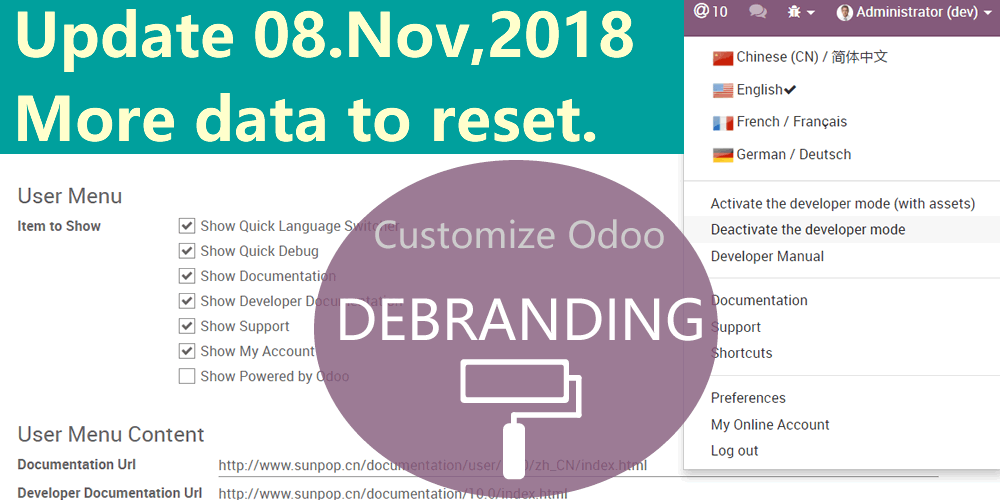
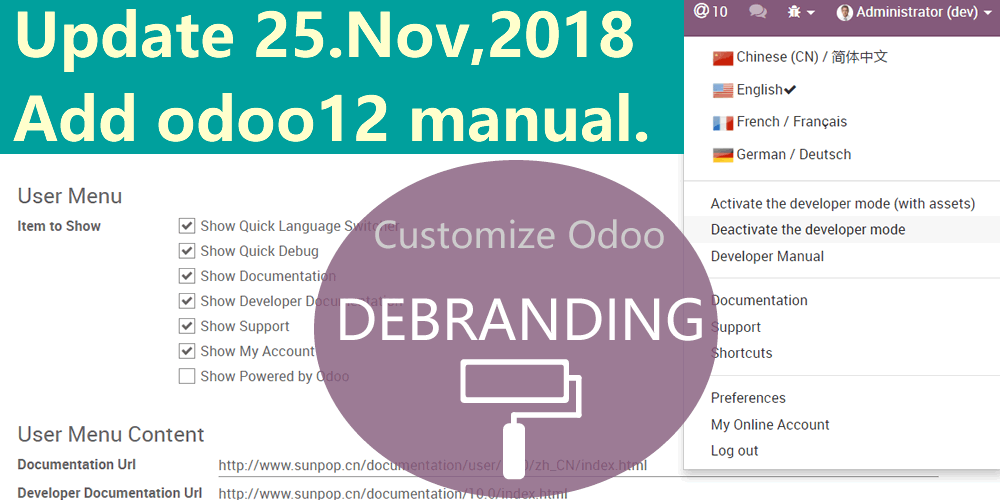
update app customize

Changed region(s): [[0.0, 0.18, 0.651, 0.3], [0.248, 0.03, 0.341, 0.12]]

diff --git a/app_odoo_customize/static/description/index.html b/app_odoo_customize/static/description/index.html
@@ -6,6 +6,8 @@
                 <p>This moduld allows user to quickly customize and debranding Odoo. Quick debug, Language Switcher,
                     Online Documentation Access,Quick Data Clear. </p>
                 <p>Support Odoo 12, 11, 10, 9. Including communicate and enterprise version. </p>
+                <h3>Update: v11.0.11.25</h3>
+                <p>add 22. Update online manual and developer document to odoo12.</p>
                 <h3>Update: v11.0.11.08</h3>
                 <p>Add 21. Reset Account Chart.</p>
                 <h3>Update: v11.0.9.30</h3>

diff --git a/app_odoo_customize/__manifest__.py b/app_odoo_customize/__manifest__.py
@@ -16,7 +16,7 @@
 # description:
 {
     'name': 'App Odoo Customize(Backend Debranding Title,Language,Documentation,Quick Debug,Clear Data)',
-    'version': '12.0.11.08',
+    'version': '12.0.11.25',
     'author': 'Sunpop.cn',
     'category': 'Productivity',
     'website': 'http://www.sunpop.cn',
@@ -55,6 +55,7 @@ You can config odoo, make it look like your own platform.
 19. One Click to clear all data (Sometime pls click twice)
 20. Show quick upgrade in app dashboard, click to show module info not go to odoo.com
 21. Can clear and reset account chart. Be cautious.
+22. Update online manual and developer document to odoo12.
 
 This module can help to white label the Odoo.
 Also helpful for training and support for your odoo end-user.
